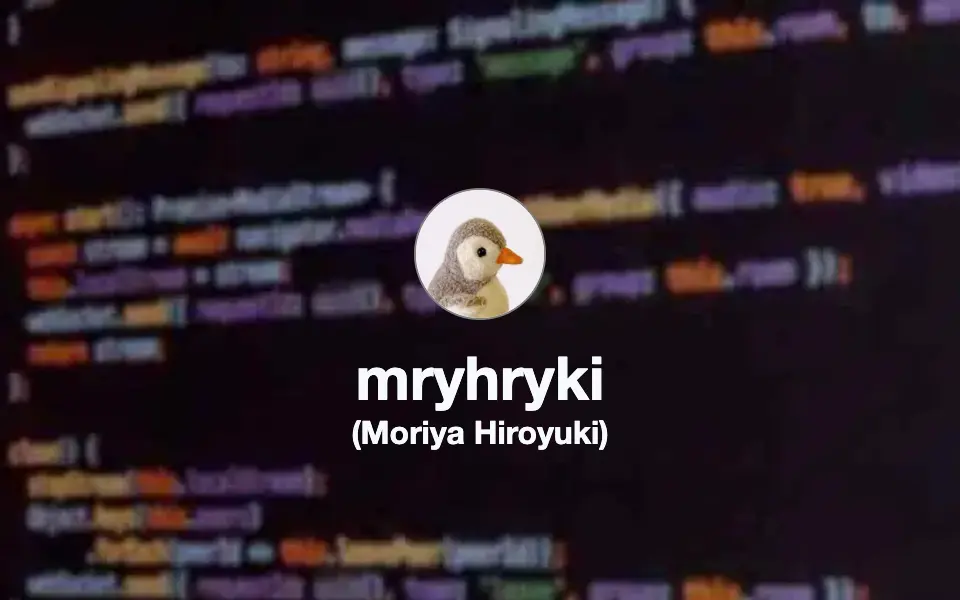
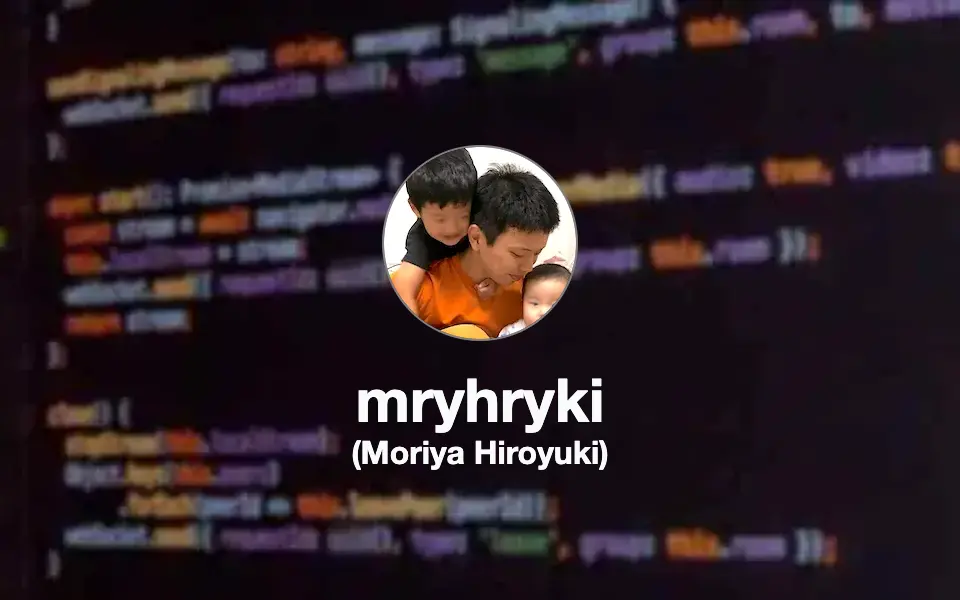
Replace share images

diff --git a/.github/script/src/site/html/index.tsx b/.github/script/src/site/html/index.tsx
@@ -44,7 +44,7 @@ export const renderBlogIndex = (posts: Post[]): string => {
 
         <meta property="og:title" content={title} />
         <meta property="og:description" content={description} />
-        <meta property="og:image" content={`${BaseURL}/assets/image/share_image.jpg`} />
+        <meta property="og:image" content={`${BaseURL}/assets/image/share_image.jpeg`} />
         <meta property="og:url" content={`${BaseURL}/blog/`} />
         <meta property="og:site_name" content="mryhryki's blog" />
         <meta property="og:locale" content="ja-JP" />
@@ -53,7 +53,7 @@ export const renderBlogIndex = (posts: Post[]): string => {
         <meta name="twitter:card" content="summary" />
         <meta name="twitter:title" content={title} />
         <meta name="twitter:description" content={description} />
-        <meta name="twitter:image" content={`${BaseURL}/assets/image/share_image.jpg`} />
+        <meta name="twitter:image" content={`${BaseURL}/assets/image/share_image.jpeg`} />
         <meta name="twitter:site" content="@mryhryki" />
 
         <link rel="stylesheet" href="/assets/css/base.css" />

diff --git a/.github/script/src/site/html/slide.tsx b/.github/script/src/site/html/slide.tsx
@@ -27,7 +27,7 @@ export const renderSlide = (markdown: string): string => {
         <meta property="og:title" content={title} />
         <meta property="og:description" content={description} />
 
-        <meta property="og:image" content={`${BaseURL}/assets/image/share_image.jpg`} />
+        <meta property="og:image" content={`${BaseURL}/assets/image/share_image.jpeg`} />
         <meta property="og:url" content={BaseURL} />
         <meta property="og:site_name" content={title} />
         <meta property="og:locale" content="ja-JP" />
@@ -36,7 +36,7 @@ export const renderSlide = (markdown: string): string => {
         <meta name="twitter:card" content="summary" />
         <meta name="twitter:title" content={title} />
         <meta name="twitter:description" content={description} />
-        <meta name="twitter:image" content="https://mryhryki.com/assets/image/share_image.jpg" />
+        <meta name="twitter:image" content="https://mryhryki.com/assets/image/share_image.jpeg" />
         <meta name="twitter:site" content="@mryhryki" />
 
         <meta name="apple-mobile-web-app-capable" content="yes" />

diff --git a/.github/script/src/site/html/blog.tsx b/.github/script/src/site/html/blog.tsx
@@ -22,7 +22,7 @@ export const renderBlogPost = (post: Post): string => {
 
         <meta property="og:title" content={title} />
         <meta property="og:description" content={description} />
-        <meta property="og:image" content={`${BaseURL}/assets/image/share_image.jpg`} />
+        <meta property="og:image" content={`${BaseURL}/assets/image/share_image.jpeg`} />
         <meta property="og:url" content={post.url} />
         <meta property="og:site_name" content={siteName} />
         <meta property="og:locale" content="ja-JP" />
@@ -31,7 +31,7 @@ export const renderBlogPost = (post: Post): string => {
         <meta name="twitter:card" content="summary" />
         <meta name="twitter:title" content={title} />
         <meta name="twitter:description" content={description} />
-        <meta name="twitter:image" content={`${BaseURL}/assets/image/share_image.jpg`} />
+        <meta name="twitter:image" content={`${BaseURL}/assets/image/share_image.jpeg`} />
         <meta name="twitter:site" content="@mryhryki" />
 
         <link rel="stylesheet" href="https://mryhryki.com/assets/css/base.css" />

diff --git a/.github/script/src/site/html/scrap.tsx b/.github/script/src/site/html/scrap.tsx
@@ -25,7 +25,7 @@ export const renderScrap = (post: Post): string => {
 
         <meta property="og:title" content={title} />
         <meta property="og:description" content={description} />
-        <meta property="og:image" content={`${BaseURL}/assets/image/share_image.jpg`} />
+        <meta property="og:image" content={`${BaseURL}/assets/image/share_image.jpeg`} />
         <meta property="og:url" content={url} />
         <meta property="og:site_name" content={siteName} />
         <meta property="og:locale" content="ja-JP" />
@@ -34,7 +34,7 @@ export const renderScrap = (post: Post): string => {
         <meta name="twitter:card" content="summary" />
         <meta name="twitter:title" content={title} />
         <meta name="twitter:description" content={description} />
-        <meta name="twitter:image" content={`${BaseURL}/assets/image/share_image.jpg`} />
+        <meta name="twitter:image" content={`${BaseURL}/assets/image/share_image.jpeg`} />
         <meta name="twitter:site" content="@mryhryki" />
 
         <link rel="stylesheet" href="https://mryhryki.com/assets/css/base.css" />

diff --git a/site/index.html b/site/index.html
@@ -11,7 +11,7 @@
 
   <meta property="og:title" content="mryhryki's portfolio" />
   <meta property="og:description" content="Webエンジニア Moriya Hiroyuki のポートフォリオサイト" />
-  <meta property="og:image" content="https://mryhryki.com/assets/image/share_image.jpg" />
+  <meta property="og:image" content="https://mryhryki.com/assets/image/share_image.jpeg" />
   <meta property="og:url" content="https://mryhryki.com/" />
   <meta property="og:site_name" content="mryhryki's portfolio" />
   <meta property="og:locale" content="ja-JP" />
@@ -20,7 +20,7 @@
   <meta name="twitter:card" content="summary" />
   <meta name="twitter:title" content="mryhryki's portfolio" />
   <meta name="twitter:description" content="Webエンジニア Moriya Hiroyuki のポートフォリオサイト" />
-  <meta name="twitter:image" content="https://mryhryki.com/assets/image/share_image.jpg" />
+  <meta name="twitter:image" content="https://mryhryki.com/assets/image/share_image.jpeg" />
   <meta name="twitter:site" content="@mryhryki" />
 
   <meta name="apple-mobile-web-app-capable" content="yes">

diff --git a/site/assets/image/index.html b/site/assets/image/index.html
@@ -78,7 +78,7 @@
       },
       {
         "name": "Share",
-        "path": "./share_image.jpg",
+        "path": "./share_image.jpeg",
         "size": "960x600"
       },
       {
